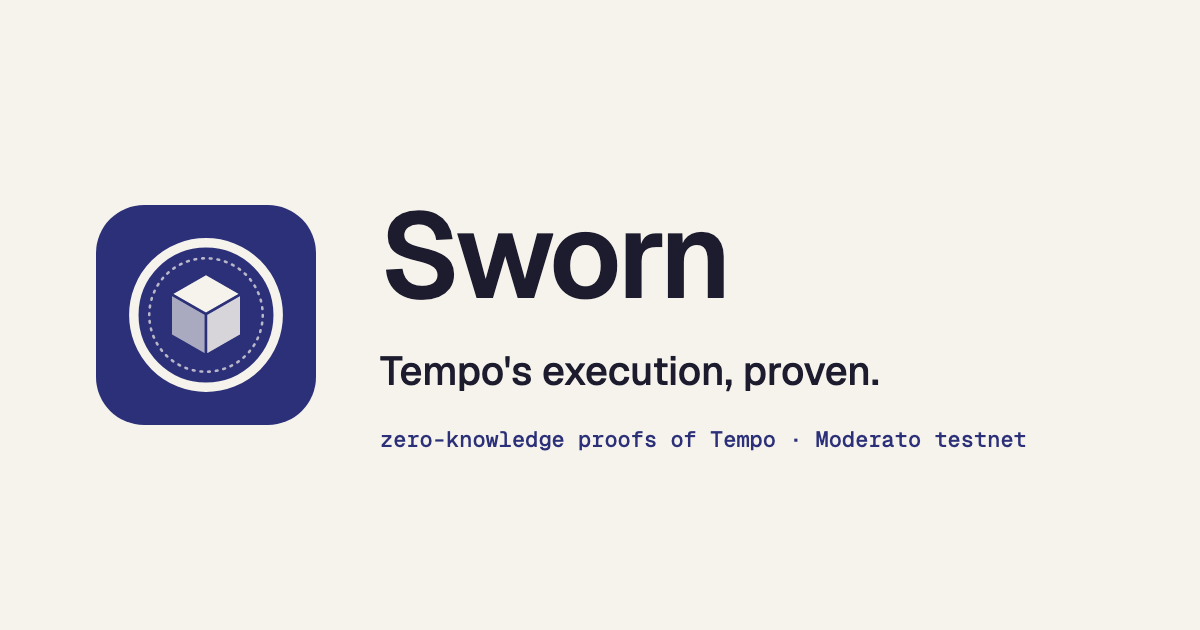
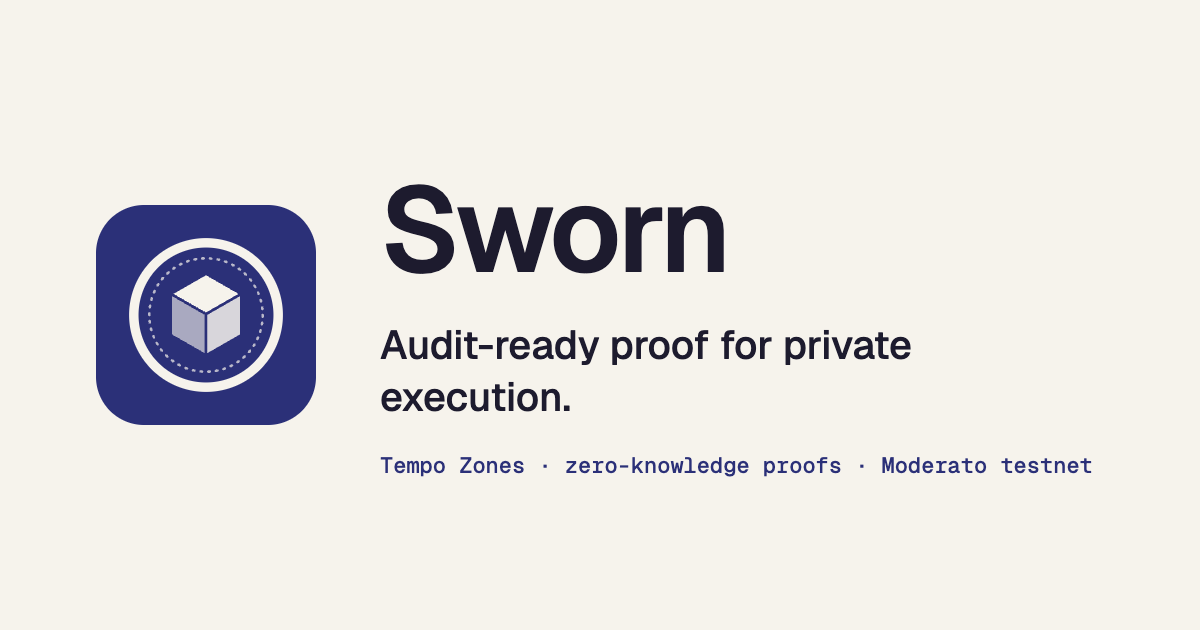
Brand card: v5.1 tagline (audit-ready proof for private execution)

Changed region(s): [[0.3083, 0.5127, 0.7708, 0.6635], [0.3083, 0.2714, 0.6167, 0.4825], [0.3083, 0.6635, 0.925, 0.754]]

diff --git a/_submission/brand/card.html b/_submission/brand/card.html
@@ -8,5 +8,5 @@ h1{font-size:120px;font-weight:600;margin:0;letter-spacing:-3px}
 p{font-size:40px;margin:12px 0 28px;font-weight:500}
 small{font-family:"Geist Mono",monospace;font-size:22px;color:#2b3078}
 </style></head><body>
-<div class="card"><img src="mark.svg"><div><h1>Sworn</h1><p>Tempo's execution, proven.</p><small>zero-knowledge proofs of Tempo · Moderato testnet</small></div></div>
+<div class="card"><img src="mark.svg"><div><h1>Sworn</h1><p>Audit-ready proof for private execution.</p><small>Tempo Zones · zero-knowledge proofs · Moderato testnet</small></div></div>
 </body></html>
